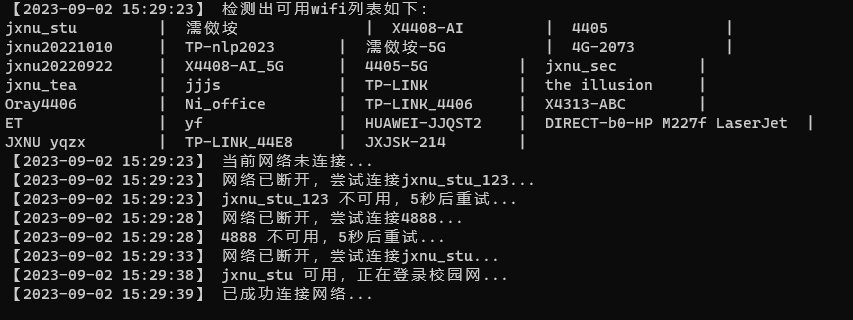
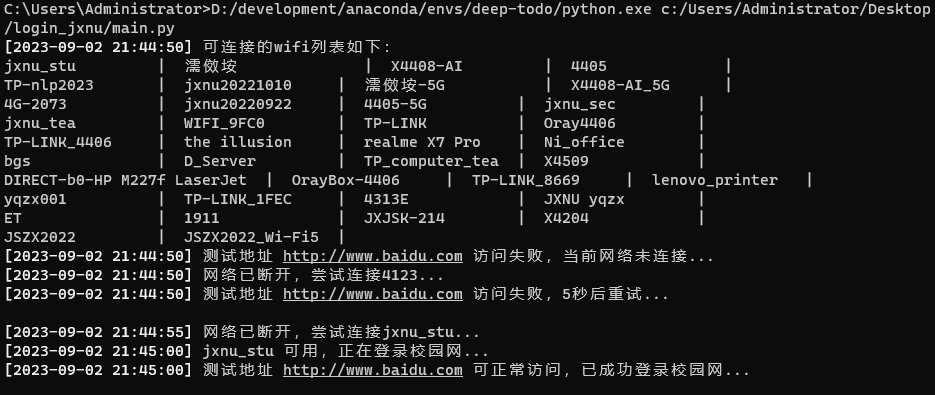
Handle encoding errors as exceptions

diff --git a/main.py b/main.py
@@ -7,11 +7,15 @@ from auto_connect.login import login
 def begin(test_address = "http://www.baidu.com"):
     test_address_u = underline_text(test_address)
     fprint_info("可连接的wifi列表如下：")
-    for index, wifi in enumerate(get_wifi_list()):
-        print(f"{wifi:<15s}", end="  |  ")
-        if (index+1) % 4 == 0:
-            print(end="\n")
-    print(end="\n")
+    WIFIs = get_wifi_list()
+    if WIFIs != "err":
+        for index, wifi in enumerate(WIFIs):
+            print(f"{wifi:<15s}", end="  |  ")
+            if (index+1) % 4 == 0:
+                print(end="\n")
+        print(end="\n")
+    else:
+        print("<编码错误，无法显示>")
     if net_is_connected():
         fprint_info(f"测试地址 {test_address_u} 可正常访问，每60秒重复一次检测...")
     else:
@@ -32,6 +36,10 @@ def main(wifi_list, account, password, jxnu_url, domain,
                     elif login(account, password, jxnu_url, domain) and net_is_connected(test_address):
                         fprint_info(f"测试地址 {test_address_u} 可正常访问，已成功登录校园网...\n")
                     else:
+                    else:
+                        fprint_info(f"测试地址 {test_address_u} 访问失败，5秒后重试...\n")
+                else:
+                else:
                         fprint_info(f"测试地址 {test_address_u} 访问失败，5秒后重试...\n")
                 else:
                     fprint_info(f"{wifi_name} 可用，测试网络是否连接...")

diff --git a/auto_connect/utils.py b/auto_connect/utils.py
@@ -4,7 +4,6 @@ import time
 import requests
 import os
 import sys
-import ctypes
 import subprocess
 
 from urllib3 import PoolManager, Retry
@@ -26,13 +25,17 @@ def run_command(cmd):
     current_directory = os.path.dirname(os.path.abspath(__file__))
     save_path = f"{current_directory}/temp.txt"
     ret = subprocess.run(f'{cmd} > {save_path}', shell=True)
-    with open(save_path, 'r') as file:
-        output = file.read()
-    return ret.returncode, output
-
+    try:
+        with open(save_path, 'r') as file:
+            output = file.read()
+        return ret.returncode, output
+    except UnicodeDecodeError as _:
+        return ret.returncode, "err"
 
 def get_wifi_list():
     _, output = run_command("netsh wlan show networks")
+    if output is "err":
+        return "err"
     pattern = r'SSID[^:]+: (.+?)\n'
     wifi_list = re.findall(pattern, output)
     return wifi_list

diff --git a/auto_connect/login.py b/auto_connect/login.py
@@ -36,11 +36,11 @@ def check_avaliable_browser(args):
 def login(user_account, user_password, jxnu_url, domain='移动'):
     try:
         options = webdriver.EdgeOptions()
-        args = ["--headless", "--no-proxy-server"]
+        args = ["--headless", "--no-proxy-server", "--log-level=3"]
         add_args_for_options(options, args)
         driver = webdriver.Edge(options=options)
         driver.get(jxnu_url)
-
+        time.sleep(1)
         domain_select = {
             '移动': '@cmcc',
             '联通': '@cucc',
@@ -58,7 +58,6 @@ def login(user_account, user_password, jxnu_url, domain='移动'):
         account.send_keys(user_account)
         password.send_keys(user_password)
         submit.click()
-        # time.sleep(1)
         driver.close()
         return True
     except Exception as err:

diff --git a/blog.md b/blog.md
@@ -59,3 +59,5 @@ UnicodeDecodeError: 'gbk' codec can't decode byte 0xb5 in position 229: illegal 
 后面的一个做法是先不对结果进行解码，将返回结果存放在一个临时文件中，然后从文件中读取结果，但打开文件的过程中其实也需要进行对文件内容进行解码，比如open(file_name, encoding="utf-8")，省略encoding参数时会使用默认的方式解码。
 
 不管怎么做，都要经过解码过程，而合适的解码方式又是不确定的，使得这个问题暂时没法解决。
+
+不过可以对这个错误进行异常处理，出现的时候就说“编码错误，无法显示”，这样不至于中断程序的执行。

diff --git a/README.md b/README.md
@@ -56,8 +56,9 @@ python main.py
 ### 🎬Screenshot
 
 <div align=center>
-<img src="./images/README/screenshot.png">
+<img src="./images/README/screenshot.png" width="800" height="320">
 </div>
+
 
 ### 👨🔧Notice
 
